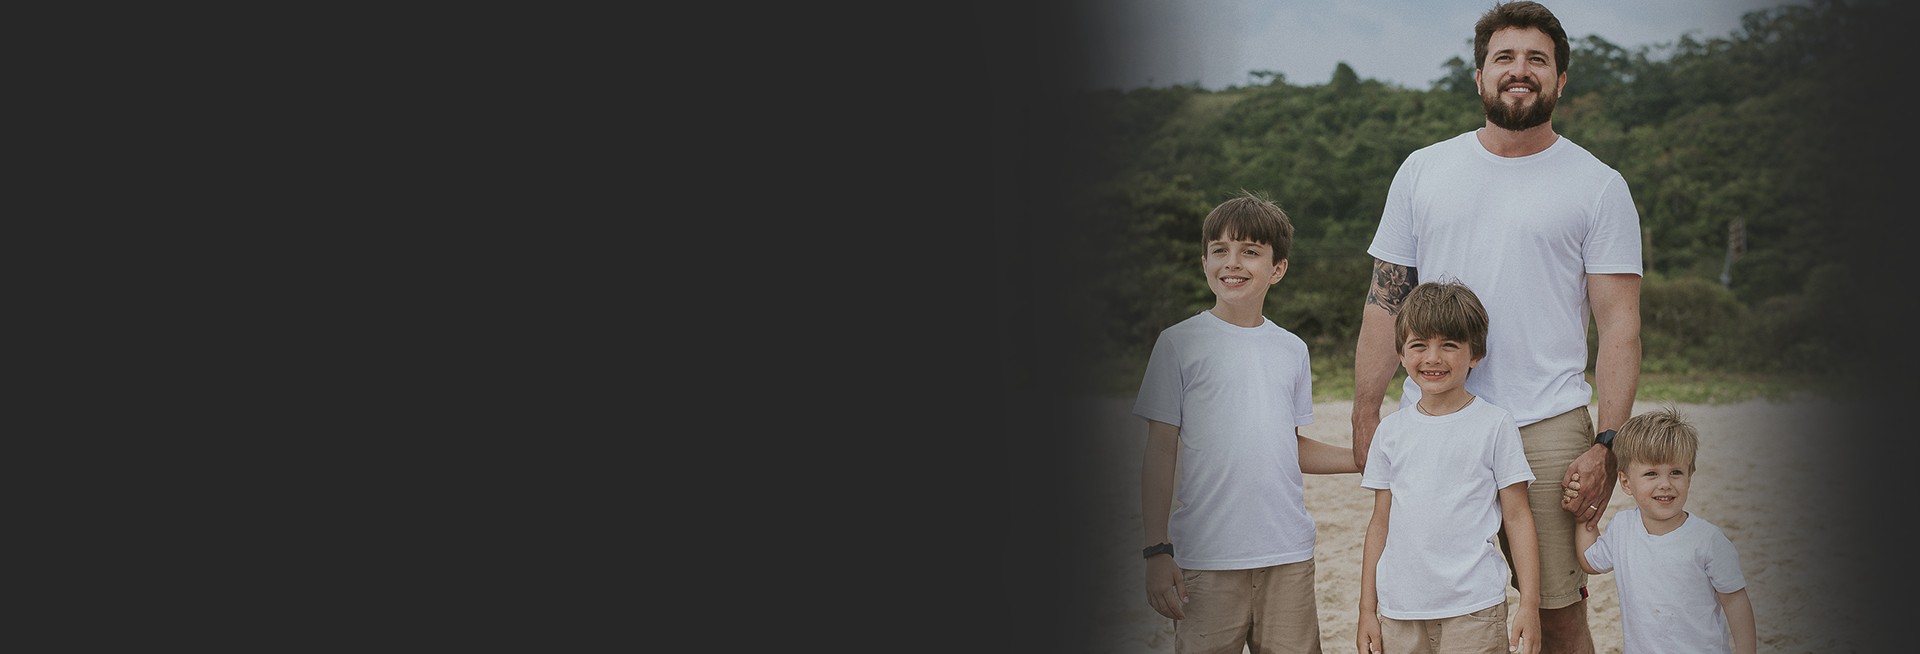
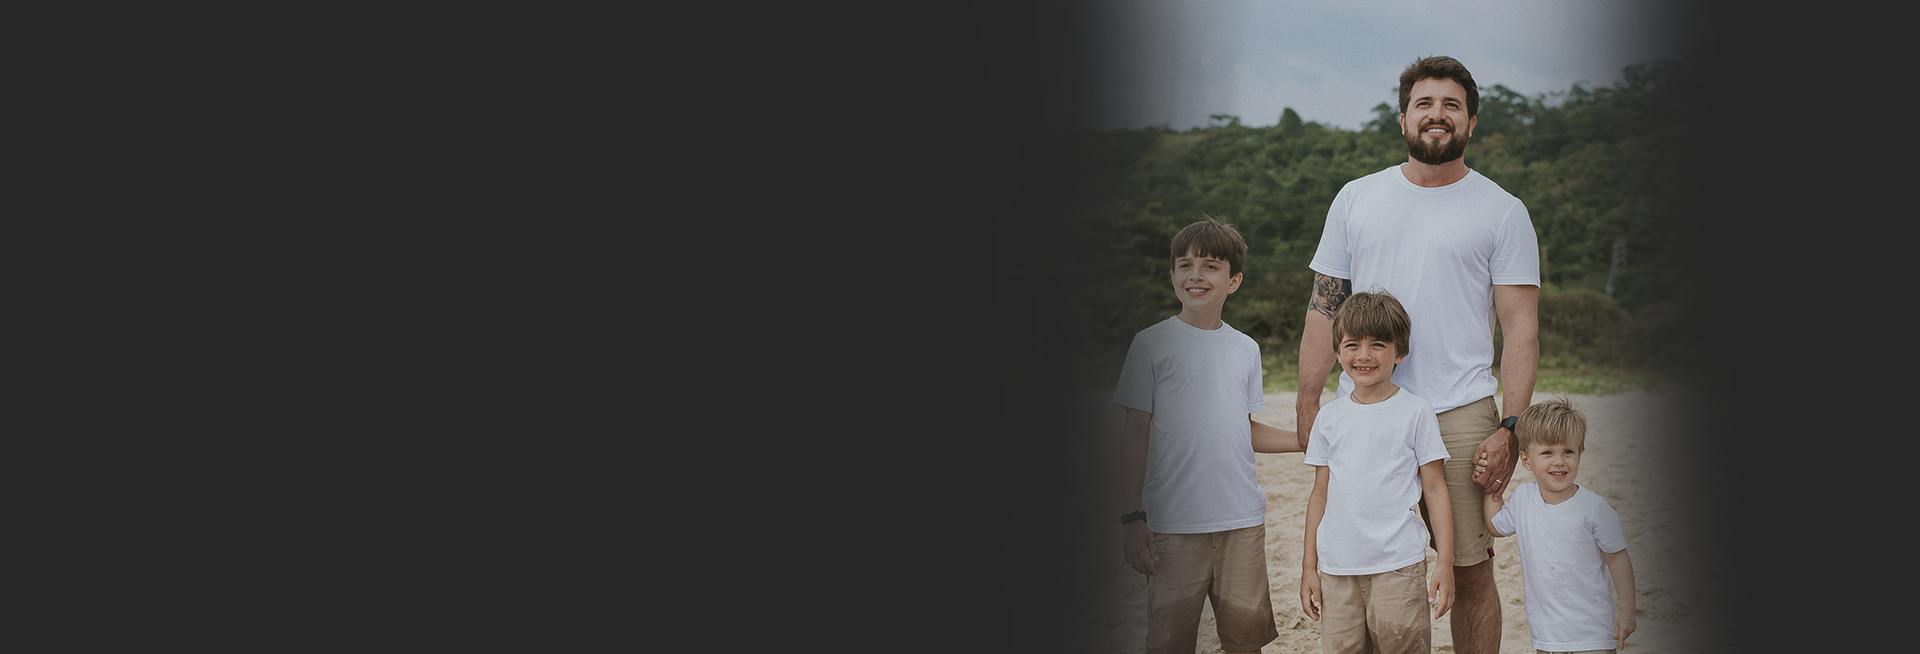
Upgrade de background

Changed region(s): [[0.5625, 0.0, 0.9688, 1.0]]

diff --git a/css/custom.css b/css/custom.css
@@ -30,7 +30,7 @@
 }
 @media (max-width: 600px) {
     .background1{
-        background-position: 82% !important;
+        background-position: 77% !important;
     }
     .icon-head{
         width: 100%;
